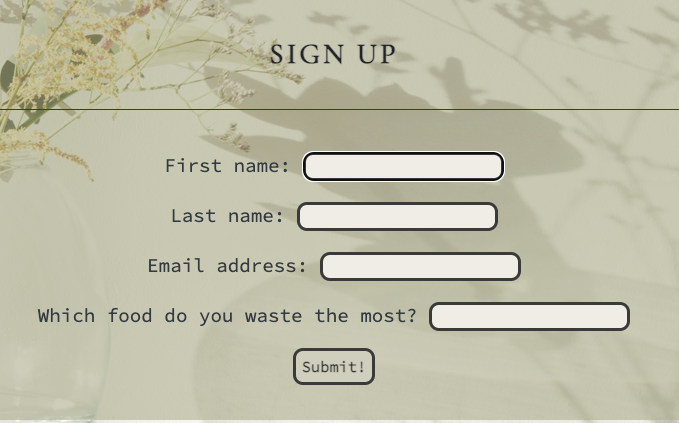
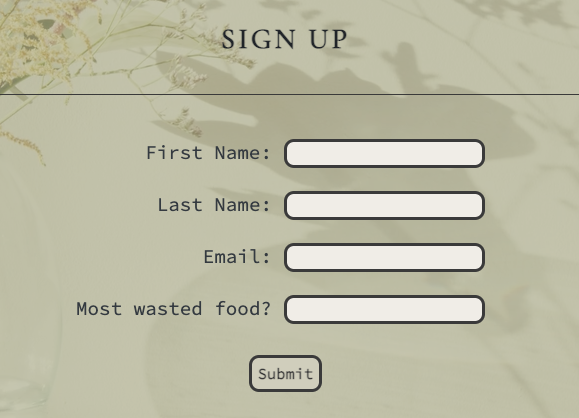
Update screenshot of sign up form in README file

diff --git a/README.md b/README.md
@@ -266,7 +266,7 @@ As a side note, it is worth noticing that the resized picture only features a si
 ## Validator Testing
 The W3C validator was used to validate the HTML code of all the pages of the website. It was also used to validate the CSS code in the style.css file. No errors were found in any of the files.
 
-* Index Page HTML: [view](/assets/images/images-readme/W3C/W3C-index.png)
+* Index Page HTML: [view](../zero-waste-life/assets/images/images-readme/W3C/W3C-index.png)
 * Recipe Page HTML: [view](/assets/images/images-readme/W3C/W3C-recipe.png)
 * Compost Page HTML: [view](/assets/images/images-readme/W3C/W3C-compost.png)
 * Sign Up Page HTML: [view](/assets/images/images-readme/W3C/W3C-signup.png)
@@ -301,7 +301,7 @@ Then I added a div to wrap all of the page content except for the footer. Using 
 The source for this piece of code can be found [here](https://www.freecodecamp.org/news/how-to-keep-your-footer-where-it-belongs-59c6aa05c59c/).
 
 
-* Improved appearance of the hero background video for iPhone4. I researched the topic and found a viable solution to resize the hero background to be responsive when displayed on smaller screens [here](https://discourse.webflow.com/t/background-video-responsive-size/81825).
+* To improve the appearance of the sign up form fields and have them aligned, I researched the topic on [Stack Overflow](https://stackoverflow.com/questions/4309950/how-to-align-input-forms-in-html) and found a viable solution by creating a table.
 
 ## Peer Review 
 
@@ -359,9 +359,9 @@ Github Pages was used to deploy the live website. The instructions to achieve th
 
 * To learn how to embed a hero background video I researched the topic and followed the instructions found on [ToolTester](https://www.tooltester.com/en/blog/how-to-embed-a-hero-background-video/) and [here](https://www.htmlandcssbook.com/extras/encoding-videos-for-the-web).
 
-* The issue with the reversed order of floating menu to the right was solved by applying the code found on: [codepen.io](https://codepen.io/ConStambo/pen/WxRQVq) and [stack overflow](https://stackoverflow.com/questions/20920265/horizontal-menu-how-to-float-right-but-keep-the-menu-items-in-the-correct-order). 
+* The issue with the reversed order of floating menu to the right was solved by applying the code found on: [codepen.io](https://codepen.io/ConStambo/pen/WxRQVq) and [Stack Overflow](https://stackoverflow.com/questions/20920265/horizontal-menu-how-to-float-right-but-keep-the-menu-items-in-the-correct-order). 
 
-* The piece of code used to make the background video responsive can be found [here](https://discourse.webflow.com/t/background-video-responsive-size/81825).
+* The piece of code used to align the form fields was borrowed from [Stack Overflow](https://stackoverflow.com/questions/4309950/how-to-align-input-forms-in-html).
 
 * To learn how to make the footer stick to the bottom, I applied the code suggested [here](https://www.freecodecamp.org/news/how-to-keep-your-footer-where-it-belongs-59c6aa05c59c/).
 
